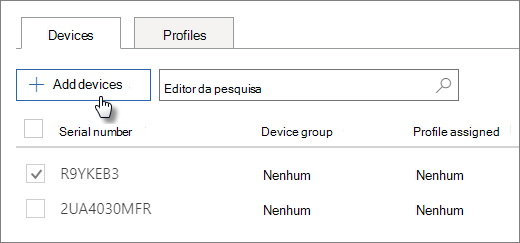
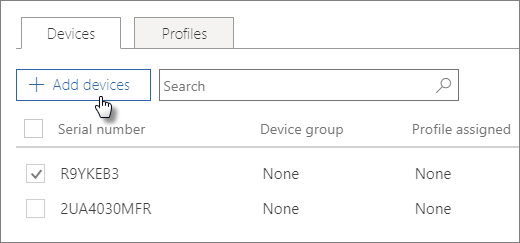
commit translated contents

diff --git a/microsoft-365/business/create-and-edit-autopilot-devices.md b/microsoft-365/business/create-and-edit-autopilot-devices.md
@@ -25,39 +25,39 @@ search.appverid:
 - MET150
 - MOE150
 ms.assetid: 0f7b1d7c-4086-4331-8534-45d7886f9f34
-description: Saiba como carregar dispositivos utilizando o AutoPilot no Microsoft 365 Business Premium. Pode atribuir um perfil a um dispositivo ou a um grupo de dispositivos.
-ms.openlocfilehash: 506ff44e3cb6656b19174e82688b5af141ea2b79
-ms.sourcegitcommit: 53acc851abf68e2272e75df0856c0e16b0c7e48d
+description: Saiba como carregar dispositivos com o AutoPilot no Microsoft 365 Empresas Premium. Pode atribuir um perfil a um dispositivo ou grupo de dispositivos.
+ms.openlocfilehash: ae3a760db4b94aac50301685a0c4f468e46ec8e9aa907a1b6fb35e03a9e541f0
+ms.sourcegitcommit: a1b66e1e80c25d14d67a9b46c79ec7245d88e045
 ms.translationtype: MT
 ms.contentlocale: pt-PT
-ms.lasthandoff: 04/02/2021
-ms.locfileid: "51578493"
+ms.lasthandoff: 08/05/2021
+ms.locfileid: "53867033"
 ---
 # <a name="create-and-edit-autopilot-devices"></a>Criar e editar dispositivos AutoPilot
 
 ## <a name="upload-a-list-of-devices"></a>Carregar uma lista de dispositivos
 
-Pode utilizar o [guia passo a passo](add-autopilot-devices-and-profile.md) para carregar dispositivos, mas também pode carregar dispositivos no separador **Dispositivos.** 
+Pode utilizar o guia [passo a](add-autopilot-devices-and-profile.md) passo para carregar dispositivos, mas também pode carregar dispositivos no separador **Dispositivos.** 
   
-Os dispositivos devem satisfazer estes requisitos:
+Os dispositivos têm de cumprir estes requisitos:
   
-- Windows 10, versão 1703 ou mais tarde
+- Windows 10, versão 1703 ou posterior
     
-- Novos dispositivos que não passaram pela experiência fora de caixa do Windows
+- Novos dispositivos que não passaram por Windows experiência prática
 
-1. No centro de administração Microsoft 365, escolha **Dispositivos** \> **AutoPilot**.
+1. Na seta centro de administração do Microsoft 365, **selecionar Dispositivos** \> **AutoPilot**.
   
-2. Na página **AutoPilot,** escolha o separador **Dispositivos** \> **Adicionar dispositivos**.
+2. Na página **AutoPilot,** selecionar o **separador Dispositivos** \> **Adicionar dispositivos.**
     
     ![In the Devices tab, choose Add devices.](../media/6ba81e22-c873-40ad-8a72-ce64d15ea6ba.png)
   
-3. No painel **de dispositivos Adicionar,** navegue num [ficheiro CSV da lista de dispositivos](../admin/misc/device-list.md) que preparou \> **Save** \> **Close**.
+3. No painel **Adicionar dispositivos,** navegue para um ficheiro [CSV](../admin/misc/device-list.md) de lista de dispositivos que tenha preparado \> **Guardar** \> **Fechar.**
     
-    Pode obter estas informações do seu fornecedor de hardware ou pode utilizar o [script Get-WindowsAutoPilotInfo PowerShell](https://www.powershellgallery.com/packages/Get-WindowsAutoPilotInfo) para gerar um ficheiro CSV. 
+    Pode obter estas informações com o fornecedor de hardware ou pode utilizar o script do [PowerShell Get-WindowsAutoPilotInfo](https://www.powershellgallery.com/packages/Get-WindowsAutoPilotInfo) para gerar um ficheiro CSV. 
     
 ## <a name="assign-a-profile-to-a-device-or-a-group-of-devices"></a>Atribuir um perfil a um dispositivo ou a um grupo de dispositivos
 
-1. Na página Preparar o **Windows,** escolha o separador **Dispositivos** e selecione a caixa de verificação ao lado de um ou mais dispositivos. 
+1. Na página **Preparar Windows, selecione** o **separador** Dispositivos e selecione a caixa de verificação junto a um ou mais dispositivos. 
     
 2. No painel **Dispositivo**, selecione um perfil a partir do menu pendente **Perfil atribuído**. 
     

diff --git a/microsoft-365/business/support/transition-csp-subscription.md b/microsoft-365/business/support/transition-csp-subscription.md
@@ -15,12 +15,12 @@ localization_priority: Normal
 audience: microsoft-business
 keywords: Microsoft 365 Subscrição CSP de Microsoft 365, SMB, transição
 ms.date: 11/01/2017
-ms.openlocfilehash: 47b65b2de9db0fd27e29272937bab2041eb67300
-ms.sourcegitcommit: 7dc3b4dec05299abb4290a6e3d1ebe0fdc622ed7
+ms.openlocfilehash: c35cb3b78c4fe2cebc8308b34ceef3decd346b3db298ce5fb56abc8cf205e69d
+ms.sourcegitcommit: a1b66e1e80c25d14d67a9b46c79ec7245d88e045
 ms.translationtype: MT
 ms.contentlocale: pt-PT
-ms.lasthandoff: 07/10/2021
-ms.locfileid: "53363825"
+ms.lasthandoff: 08/05/2021
+ms.locfileid: "53867167"
 ---
 # <a name="transition-a-microsoft-365-business-csp-subscription"></a>Transição de uma subscrição do Microsoft 365 Empresas CSP
 
